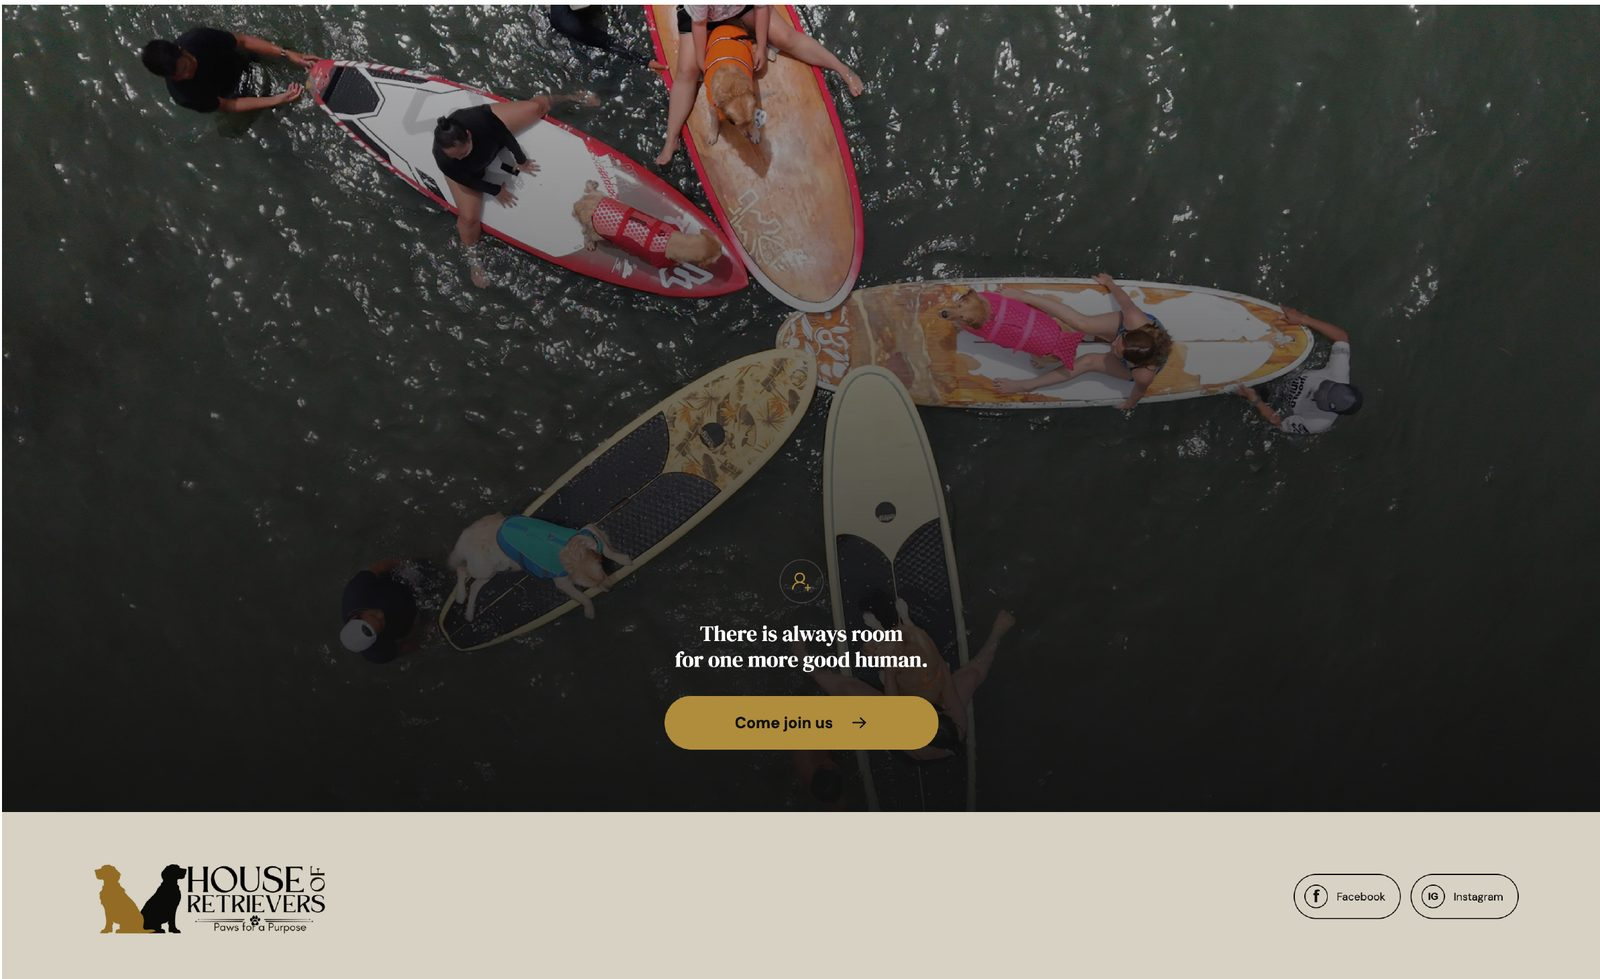
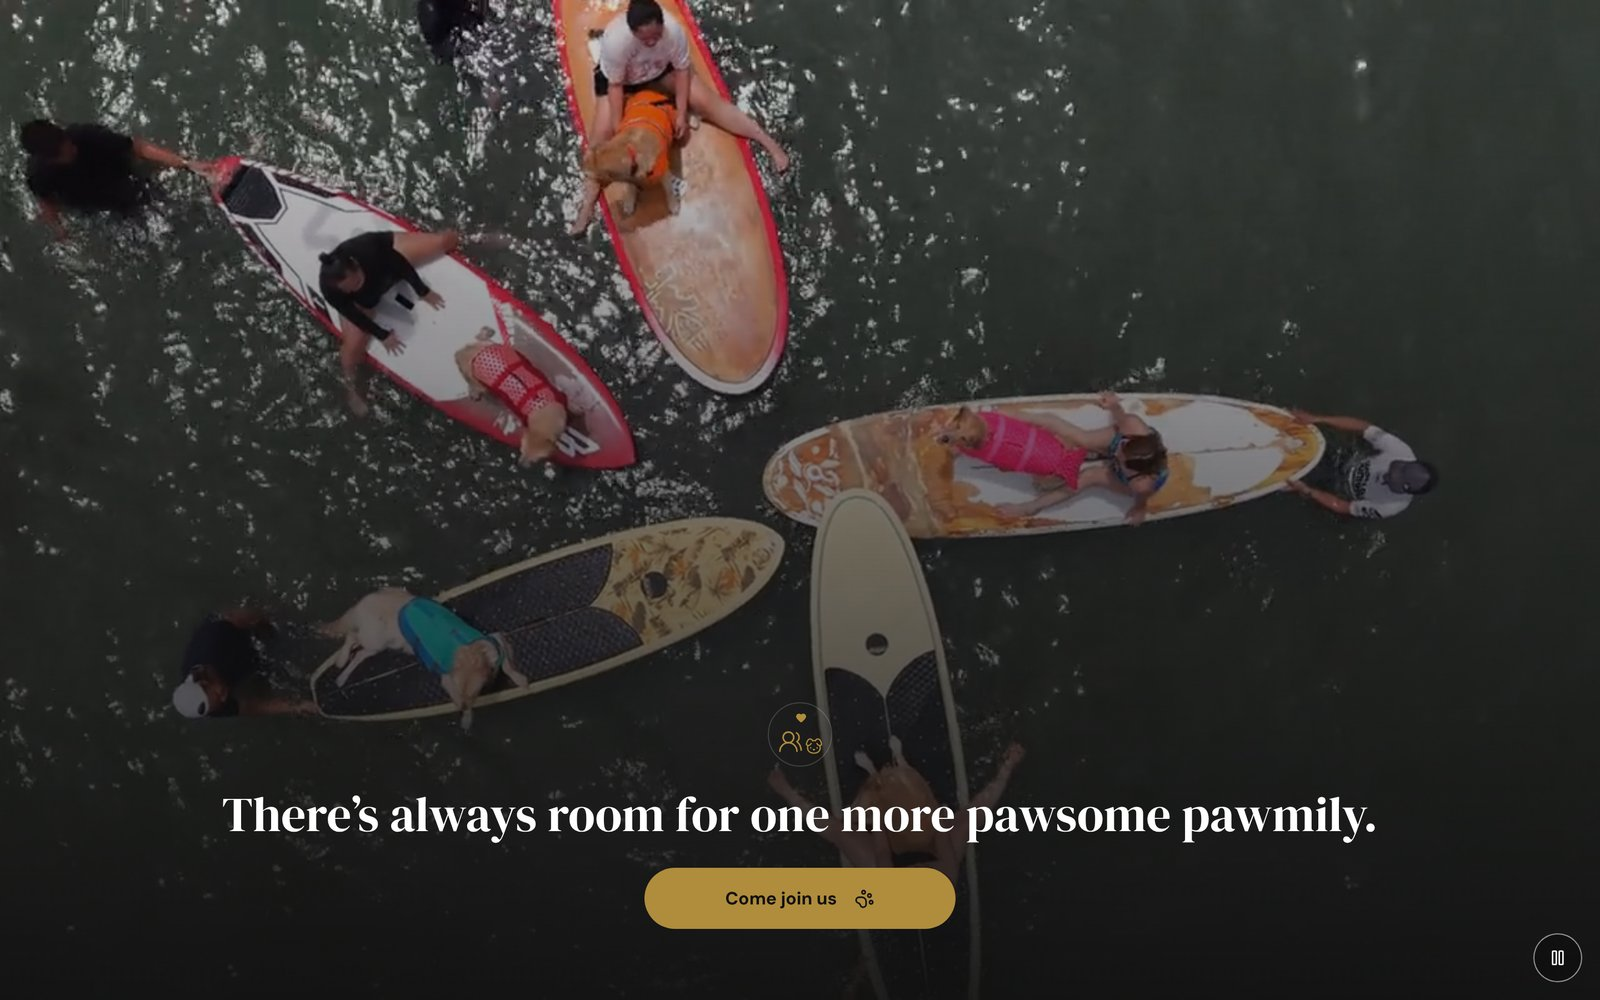
Refresh House of Retrievers screenshots from the live site (#13)
* Refresh House of Retrievers screenshots from the live site

Recapture hero, purpose pillars, Instagram feed, ways to join and the
closing invite from houseofretrieversph.org, and update the two captions
the new site no longer matches (pillars layout, closing line).

Claude-Session: https://claude.ai/code/session_0193V5bBbFeKkzioBEn6D8Tb

* Reframe House of Retrievers ask: join first, support second

The live site now has a Support the pack option, so drop the
"no donate button" claim and describe money as the secondary ask.

Claude-Session: https://claude.ai/code/session_0193V5bBbFeKkzioBEn6D8Tb

---------

diff --git a/apps/portfolio/lib/projects-data.ts b/apps/portfolio/lib/projects-data.ts
@@ -303,7 +303,7 @@ export const caseStudies: CaseStudy[] = [
     band: {
       media: "image",
       images: [{ src: `${HOR}/hero.jpg`, label: "House of Retrievers PH hero — \"Good dogs. Good people. Greater Good.\"" }],
-      highlight: { label: "The ask", value: "No donate button. Three ways to join instead: member, volunteer, partner." },
+      highlight: { label: "The ask", value: "Join first: member, volunteer, partner. Money is the quieter second ask." },
     },
     problem: [
       "House of Retrievers PH turns a furparent community into service: volunteer outreach, practical care learning, and gatherings whose proceeds go to a named beneficiary. The site is its front door.",
@@ -321,7 +321,7 @@ export const caseStudies: CaseStudy[] = [
       {
         heading: "Answering \"is this for me?\"",
         body: "\"More than a breed\" sits first after the hero, because that is the question a non-retriever owner is already holding. The three pillars under it, outreach, better care, and gatherings that give back, are none of them breed-gated. The logo helps too: two dogs, one golden, one black.",
-        imageLabel: "\"More than a breed. A way to give back.\" with the three purpose pillars",
+        imageLabel: "\"More than a breed. A way to give back.\" above the first of three purpose pillars",
         image: `${HOR}/purpose-pillars.jpg`,
       },
       {
@@ -351,16 +351,16 @@ export const caseStudies: CaseStudy[] = [
     ],
     solution: {
       body:
-        "The asks form a ladder: become a member, volunteer together, partner for a cause. There is no donate button; the ask is to join. Behind it, one admin carries every yes through: registrations and payment checks, guest and brand replies per event, a team chat, and a door that greets each guest and their dog by name.",
+        "The asks form a ladder: member, volunteer, partner. Money comes second: \"Support the pack\" funds a community activity and sits below the three ways in. Behind it, one admin carries every yes through: registrations and payment checks, guest and brand replies, a team chat, and a door that greets each guest and their dog by name.",
       gallery: [
         {
           label: "Three ways in",
-          caption: "Member, volunteer, partner — three sizes of yes, so nobody who wants to help leaves empty-handed.",
+          caption: "Member, volunteer, partner — three sizes of yes, so nobody who wants to help leaves empty-handed. Support the pack sits below, as the smaller ask.",
           image: `${HOR}/ways-to-join.jpg`,
         },
         {
           label: "The closing invitation",
-          caption: "The last frame, in one line: \"There is always room for one more good human.\" Not one more retriever.",
+          caption: "The last frame, in one line: \"There’s always room for one more pawsome pawmily.\" Not one more retriever.",
           image: `${HOR}/closing-invite.jpg`,
         },
         {
